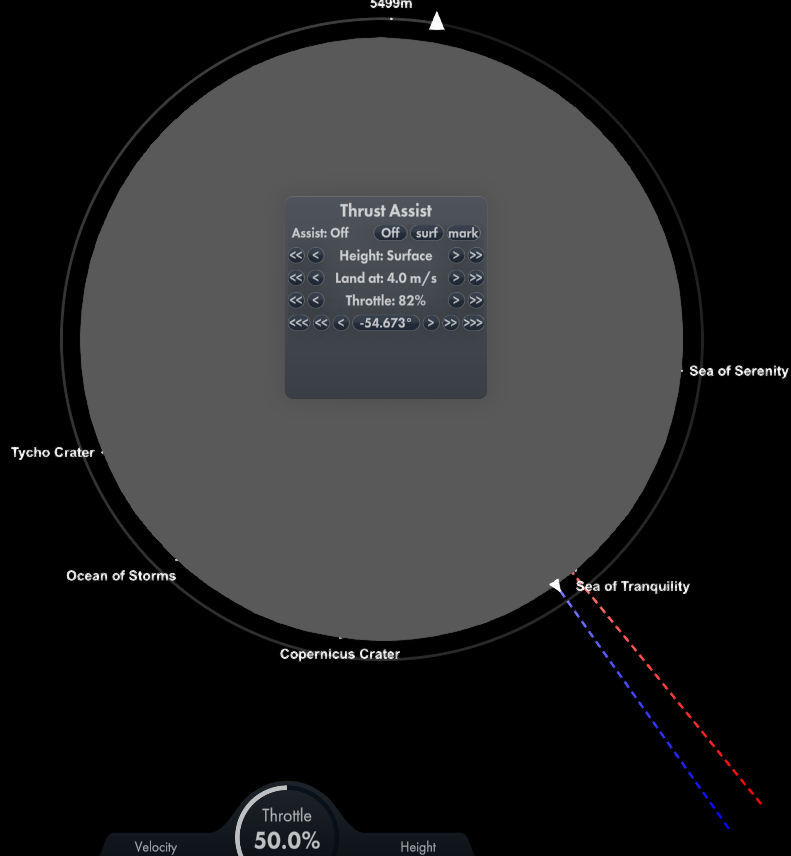
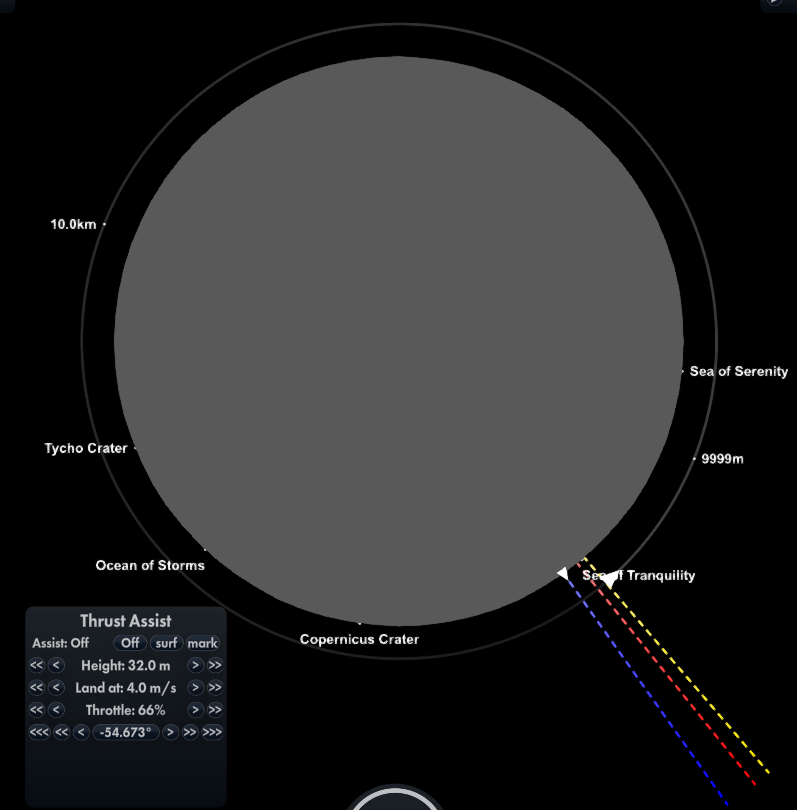
Increase marker fine adjust step. Reduced overshoot. Updated documentation

Changed region(s): [[0.0, 0.0, 1.0, 1.0], [0.3338, 0.216, 0.6372, 0.463], [0.9709, 0.0, 1.0, 0.0309]]

diff --git a/ThrustAssistMod/UI.cs b/ThrustAssistMod/UI.cs
@@ -128,6 +128,8 @@ namespace ThrustAssistMod
             private static double _marker=90;
             private static SFS.UI.ModGUI.Button _markerOnOff_Button;
             private static bool _markerOn=false;
+            private const double _markerStep_Large=1000;
+            private const double _markerStep_Small=30;
             private static SFS.UI.ModGUI.Label _note_Label;
             private static _UpDownValueLog _targetHeight_UDV;
             private static _UpDownValueLog _targetThrottle_UDV;
@@ -287,12 +289,12 @@ namespace ThrustAssistMod
 
             private static void Marker_BackLarge_Click()
             {
-                Marker = ThrustAssistMod.Utility.NormaliseAngle(Marker + ThrustAssistMod.Utility.MetersToDegrees(50));
+                Marker = ThrustAssistMod.Utility.NormaliseAngle(Marker + ThrustAssistMod.Utility.MetersToDegrees(_markerStep_Large));
             }
 
             private static void Marker_BackSmall_Click()
             {
-                Marker = ThrustAssistMod.Utility.NormaliseAngle(Marker + ThrustAssistMod.Utility.MetersToDegrees(5));
+                Marker = ThrustAssistMod.Utility.NormaliseAngle(Marker + ThrustAssistMod.Utility.MetersToDegrees(_markerStep_Small));
             }
 
             private static void Marker_ForwardLandmark_Click()
@@ -329,12 +331,12 @@ namespace ThrustAssistMod
 
             private static void Marker_ForwardLarge_Click()
             {
-                Marker = ThrustAssistMod.Utility.NormaliseAngle(Marker - ThrustAssistMod.Utility.MetersToDegrees(50));
+                Marker = ThrustAssistMod.Utility.NormaliseAngle(Marker - ThrustAssistMod.Utility.MetersToDegrees(_markerStep_Large));
             }
 
             private static void Marker_ForwardSmall_Click()
             {
-                Marker = ThrustAssistMod.Utility.NormaliseAngle(Marker - ThrustAssistMod.Utility.MetersToDegrees(5));
+                Marker = ThrustAssistMod.Utility.NormaliseAngle(Marker - ThrustAssistMod.Utility.MetersToDegrees(_markerStep_Small));
             }
 
             private static void Marker_OnOff_Click()

diff --git a/ThrustAssistMod/Updater.cs b/ThrustAssistMod/Updater.cs
@@ -212,7 +212,7 @@ namespace ThrustAssistMod
                                             targetVelocity.x = 0;
                                         }
 
-                                        targetAcceleration = (targetVelocity-velocity)/(2.0*timeStep) - environmentAcceleration;
+                                        targetAcceleration = (targetVelocity-velocity)/timeStep - environmentAcceleration;
 
                                         if
                                             (
@@ -226,7 +226,7 @@ namespace ThrustAssistMod
                                                 double.IsNaN(targetAcceleration.x)
                                                 || !ThrustAssistMod.UI.AssistMark
                                                 || targetAcceleration.x*velocity.x>0
-                                                || velocity.x*targetDistance.x<0
+//~                                                 || velocity.x*targetDistance.x<0
                                             ) targetAcceleration.x=0;
 
                                         targetAccelerationMagnitude = targetAcceleration.magnitude;
@@ -325,7 +325,7 @@ namespace ThrustAssistMod
                                         if (note.Length!=0) note.Append("\n");
                                         note.AppendFormat
                                             (
-                                                "land in {0:F0} s"
+                                                "Land in {0:F0} s"
                                                 ,-height/velocity.y
                                             );
                                     }

diff --git a/README.md b/README.md
@@ -2,9 +2,9 @@
 
 Thrust assistance mod for Spaceflight Simulator 1
 
-![User Interface](/Images/UI_MarkerOff.png)
+![User Interface](Images/UI_MarkerOff.png)
 
-![User Interface](/Images/UI_MarkerOn.png)
+![User Interface](Images/UI_MarkerOn.png)
 
 
 **Assist** Selects the type of assistance
@@ -12,41 +12,48 @@ Thrust assistance mod for Spaceflight Simulator 1
 * 'Surf' Assist with landing on the surface (i.e vertical velocity with respect to the planet)
 * 'Mark' Assist with de-orbiting to land at the selected marker (i.e horizontal velocity with respect to the planet). Visible when the marker is enabled.
 
-if 'surface' assistance is selected, taking the orientation of the rocket into account, this mod will set the thrust to attempt to reach 0 m/s vertical velocity at the specified altitude. If the altitude is set to _surface_ (the minimum altitude) it will attempt to land at the specified velocity.
+If _surface_ assistance is selected, taking the orientation of the rocket into account, this mod will set the thrust to attempt to reach 0 m/s vertical velocity at the specified altitude. If the altitude is set to _surface_ (the minimum altitude) it will attempt to land at the specified velocity.
 
-if 'marker' assistance is selected, taking the orientation of the rocket into account, this mod will set the thrust to attempt to reach 0 m/s horizontal velocity at the specified mark.
+If _marker_ assistance is selected, taking the orientation of the rocket into account, this mod will set the thrust to attempt to reach 0 m/s horizontal velocity at the specified mark.
 
-**Height** The target altitude, only used for 'surface' assistance. N.B. this is from approximately the bottom of the rocket, not the CoM.
+**Height** The target altitude, only used for _surface_ assistance. N.B. this is from approximately the bottom of the rocket (CoM-'radius'), not the CoM.
 * << _set minimum value_
 * < _reduce value_
 * \> _increase value_
 * \>\> _set maximum value_
 
-**Land at** The target landing speed, only used for 'surface' assistance. Is ignored unless the height is set to the minimum value.
-(controls as for height
+**Land at** The target landing speed, only used for _surface_ assistance. Is ignored unless the height is set to the minimum value.
+(controls as for height)
 
 **Throttle** The target throttle to be used. This is used to estimate the velocity needed.
+(controls as for height)
 
 **Marker** Enable the landing marker. When enabled will show the position of the current marker.
 * <<< _move marker anti-clockwise to the next landmark or landed rocket_
-* << _move marker anti-clockwise 50m_
-* < _move marker anti-clockwise 5m_
-* \>  _move marker clockwise 5m_
-* \>\> _move marker clockwise 50m_
+* << _move marker anti-clockwise 1km_
+* < _move marker anti-clockwise 30m_
+* \>  _move marker clockwise 30m_
+* \>\> _move marker clockwise 1km_
 * \>\>\> _move marker clockwise to the next landmark or landed rocket_
 
-![Marker on map](/Images/MapMarker.png)
+![Marker on map](Images/MapMarker.png)
 
-The blue line is the marker position. The red line is the position where de-orbiting is to start assuming the correct orientation (usually retrograde) and the selected throttle with the current rocket mass and switched on engines.
+The blue line is the marker position. The yellow line is the position where de-orbiting is to start assuming the correct orientation (usually retrograde) and the selected throttle with the current rocket mass and switched on engines. The red line is the position where deorbiting must start assuming 100% throttle i.e the last position that you can de-orbit at to reach the target.
 
 ---
 
 Currently I use it to land more efficiently. It will set the throttle to reduce the vertical velocity so the spacecraft comes to a stop at the specified altitude. This allows me to land faster and so spend less fuel.
 
-If 'surface' assistance is selected and the target altutude is set to the minimum value it will aim to reach the target altitude at the specified vertical velocity i.e land at that velocity. It does not control direction so the spacecraft needs to be pointed up to land. If, when hovering at a specified altitude, you rotate the spacecraft (do not point if down!) it will increase the throttle to maintain altitude as you start to move sideways. While moving sideways it will try to maintain the same altitude above the terrain - following the contours. This is to allow you to pick a landing site. It works best when used with SAS to maintain the desired direction.
+If _surface_ assistance is selected and the target altutude is set to the minimum value it will aim to reach the target altitude at the specified vertical velocity i.e land at that velocity. It does not control direction so the spacecraft needs to be pointed up to land. If, when hovering at a specified altitude, you rotate the spacecraft (do not point if down!) it will increase the throttle to maintain altitude as you start to move sideways. While moving sideways it will try to maintain the same altitude above the terrain - following the contours. This is to allow you to pick a landing site. It works best when used with SAS to maintain the desired direction.
 
-To land with it from orbit first enable the marker and select the position you want the land at. Next, timewarp to a little short of the red dotted line on the map and point retrograde. When the red dotted line is reached the engines will start. Once you are descending, switch to 'surface' assistance aiming for the default target altitude of 32m. By pointing retrograde anf remaining sideways velocity is reduced as well. Once at the target altitude, switch 'prograde' off in SAS and manually set the direction to reduce the remaining sideways velocity to zero then set SAS to Surface 0 degress and change the target altitude to the minimum. The spacecraft will land at the specified velocity.
+The following example is for a Lunar landing in Normal starting from a 100km orbit with plenty of thrust (earth TWR around 1 - local TWR nearly 6) the details will vary in other situations. To land with it from orbit.
+1. First enable the marker and select the position you want the land at. 
+2. Next, timewarp to a little short of the yellow dotted line on the map, point retrograde and select _marker_ assistance. When the yellow dotted line is reached the engines will start.
+3. Once you are close, select _surface_ assistance also ('Both' will be displayed) aiming for the default target altitude of 32m.
+4. When the marker is reached switch off _marker_ assistance.
+5. Once at the target altitude, switch 'prograde' off in SAS and manually set the direction to reduce the remaining sideways velocity to zero. Alternately, to move sidewise, tilt a little in the direction to start moving in and tilt back once the desired position is reached.
+6. Finally set SAS to Surface 0 degrees and change the target altitude to the minimum. The spacecraft will land at the specified velocity.
 
-So far I've only tried it with plenty of thrust and coming to a halt over the target, then landing. For more efficient landing or with lower thrust you might want to move the marker a little short of the target and switch to 'surface' assistance before all the horizonal velocity has been eliminated. Might require a little practice to get this right.
+So far I've only tried it with plenty of thrust and coming to a halt over the target, then landing. For more efficient landing or with lower thrust you might want to adjust the marker position and and angle a bit up from prograde onced descending. Will require a little practice to get this right.
 
-At some point I might allow both 'surface' and marker' assistance to be selected at the same time - if I can work out a good way to display the correct direction of thrust needed (and make it work with both selected!).
+Future plans include providing thrust assistance when approaching a target. Also indicating a recommended direction for surface+marker assistance - if I can work out how to do this!
